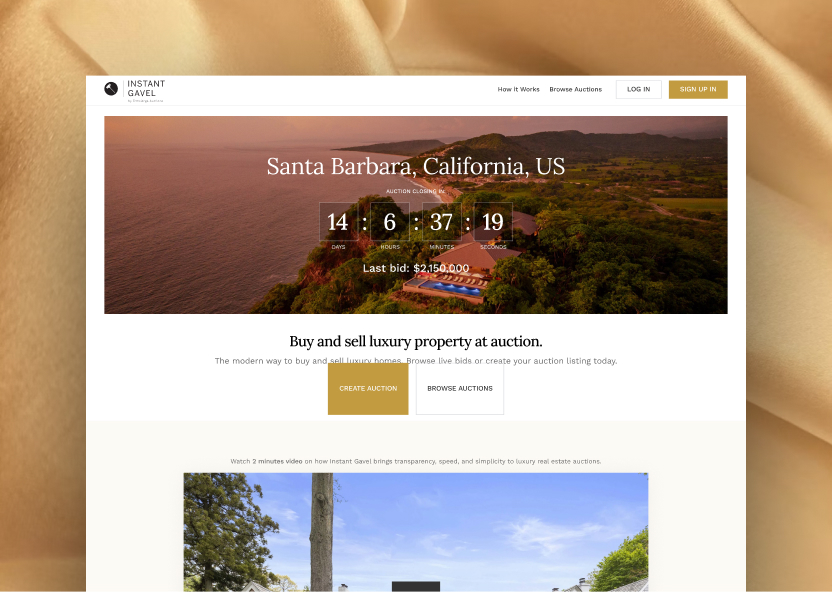
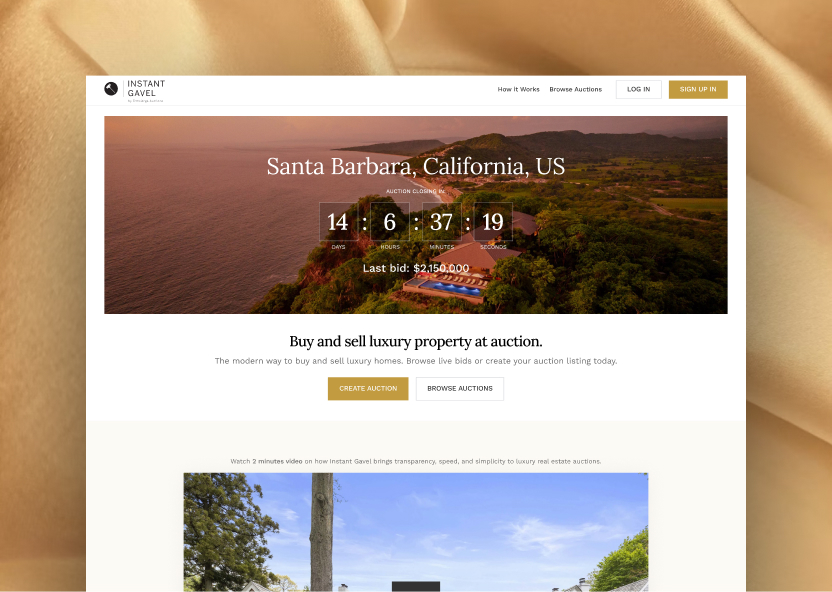
Massiv update + Instant Gavel case

Changed region(s): [[0.375, 0.6689, 0.5, 0.6993], [0.375, 0.6081, 0.5, 0.6385]]

diff --git a/index.html b/index.html
@@ -53,15 +53,13 @@
 <section id="hero" class="hero">
   <div class="container">
     <h1 class="hero__title load-rise">
-      <span class="hero__title-word">I</span> <span class="hero__title-word">Design</span> <span class="hero__title-word">Complex</span> <span class="hero__title-word">Digital</span> <span class="hero__title-word">Products</span><br />
-      <span class="hero__title-word">With</span> <span class="hero__title-word">Clean</span> <span class="hero__title-word">UI</span> <span class="hero__title-word">And</span> <span class="hero__title-word">User-Centered</span> <span class="hero__title-word">UX</span>
+      <span class="hero__title-word">Scaling</span> <span class="hero__title-word">Complex</span> <span class="hero__title-word">Digital</span> <span class="hero__title-word">Products</span><br />
+      <span class="hero__title-word">Leading</span> <span class="hero__title-word">Team</span> <span class="hero__title-word">AI</span> <span class="hero__title-word">Design</span> <span class="hero__title-word">Strategy</span>
     </h1>
 
     <ul class="hero__meta load-rise">
-      <li>7+ years experience</li>
-      <li>Led AI design strategy</li>
-      <li>Scaling design systems</li>
-      <li>From Poland</li>
+      <li>Senior Product Designer</li>
+      <li>7+ Years Experience</li>
     </ul>
   </div>
 
@@ -74,12 +72,48 @@
 </section>
 
 
+  <!-- ===================== ABOUT ===================== -->
+  <section id="about" class="about">
+    <div class="container about__inner">
+      <svg class="shape shape--circle" viewBox="0 0 80 80" fill="none" aria-hidden="true">
+        <circle cx="40" cy="40" r="39" stroke="currentColor" stroke-width="1" />
+      </svg>
+      <svg class="shape shape--cube" viewBox="0 0 88 96" fill="none" aria-hidden="true">
+        <path d="M44 1 L87 24 V72 L44 95 L1 72 V24 Z" stroke="currentColor" stroke-width="1" />
+        <path d="M1 24 L44 47 L87 24" stroke="currentColor" stroke-width="1" />
+        <path d="M44 47 V95" stroke="currentColor" stroke-width="1" />
+      </svg>
+      <svg class="shape shape--tetra" viewBox="0 0 118 104" fill="none" aria-hidden="true">
+        <path d="M59 1 L1 70" stroke="currentColor" stroke-width="1" />
+        <path d="M59 1 L117 70" stroke="currentColor" stroke-width="1" />
+        <path d="M59 1 L59 103" stroke="currentColor" stroke-width="1" />
+        <path d="M1 70 L59 103" stroke="currentColor" stroke-width="1" />
+        <path d="M117 70 L59 103" stroke="currentColor" stroke-width="1" />
+      </svg>
+
+      <div class="about__content">
+        <h2 class="about__title reveal">My Experience</h2>
+        <p class="reveal">Designing complex products, across real estate, logistics, legal tech and EdTech.</p>
+        <p class="reveal">Diving deeper into the core product team, like 3 years on Prospect Converter.</p>
+        <p class="reveal">Using AI workflow for fast MVP validation.</p>
+      </div>
+    </div>
+  </section>
+
   <!-- ===================== WORK APPROACH ===================== -->
   <section id="approach" class="approach">
     <div class="container">
       <h2 class="section-title reveal">Work Approach</h2>
 
       <ol class="steps">
+        <li class="step reveal">
+          <span class="step__icon" aria-hidden="true">
+            <img src="assets/icon-explore.svg" alt="" width="28" height="33" />
+          </span>
+          <h3 class="step__title">Explore &amp; Analyse</h3>
+          <p class="step__text">Take the input into account, identify what&rsquo;s missing, and narrow down the key focus.</p>
+        </li>
+
         <li class="step reveal">
           <span class="step__icon" aria-hidden="true">
             <img src="assets/icon-frame.svg" alt="" width="26" height="26" />
@@ -90,17 +124,9 @@
 
         <li class="step reveal">
           <span class="step__icon" aria-hidden="true">
-            <img src="assets/icon-explore.svg" alt="" width="28" height="33" />
-          </span>
-          <h3 class="step__title">Explore &amp; Analyse &ndash; AI Powered</h3>
-          <p class="step__text">Take the input into account, identify what&rsquo;s missing, and narrow down the key focus.</p>
-        </li>
-
-        <li class="step reveal">
-          <span class="step__icon" aria-hidden="true">
             <img src="assets/icon-generate.svg" alt="" width="33" height="31" />
           </span>
-          <h3 class="step__title">Generating &amp; Validate &ndash; AI Powered</h3>
+          <h3 class="step__title">Generating &amp; Validate</h3>
           <p class="step__text">Structure the gathered information to verify the best-fit solutions.</p>
         </li>
 
@@ -139,15 +165,15 @@
       <div class="cases__grid">
         <a class="case reveal-scale" href="team-wide-ai-workflow.html">
           <div class="case__thumb">
-            <img src="assets/ai-case-thumbnail.jpg" alt="Shipping platform dashboard with shipment reports and analytics" loading="lazy" />
+            <img src="assets/ai-case-thumbnail.jpg" alt="AI-Native Product Design Workflow on a Team Level" loading="lazy" />
           </div>
-          <span class="case__tag">AI-Native UX/UI Design</span>
-          <h3 class="case__title">AI-Native UX/UI Design Workflow on a Team Level</h3>
+          <span class="case__tag">Team Scale – AI Workflow</span>
+          <h3 class="case__title">AI-Native Product Design Workflow on a Team Level</h3>
         </a>
 
         <a class="case reveal-scale" href="instant-gavel.html">
           <div class="case__thumb">
-            <img src="assets/instant-gavel-thumbnail.jpg" alt="Shipping platform dashboard with shipment reports and analytics" loading="lazy" />
+            <img src="assets/instant-gavel-thumbnail.jpg" alt="Luxury Properties Auctions Platform" loading="lazy" />
           </div>
           <span class="case__tag">Instant Gavel – Real Estate</span>
           <h3 class="case__title">Luxury Properties Auctions Platform</h3>
@@ -155,9 +181,9 @@
 
         <a class="case reveal-scale" href="shipment.html">
           <div class="case__thumb">
-            <img src="assets/case-shipping.jpg" alt="Shipping platform dashboard with shipment reports and analytics" loading="lazy" />
+            <img src="assets/case-shipping.jpg" alt="Shipping Experience For Small Businesses" loading="lazy" />
           </div>
-          <span class="case__tag">Shipping Platform - Shipment</span>
+          <span class="case__tag">Shipping Platform - Logistics</span>
           <h3 class="case__title">Shipping Experience For Small Businesses</h3>
         </a>
 

diff --git a/styles.css b/styles.css
@@ -198,11 +198,6 @@ h1, h2, h3, h4 { font-family: var(--font-display); }
   left: 50%;
   transform: translateX(-50%);
   color: var(--fg);
-  animation: bob 2.4s ease-in-out infinite;
-}
-@keyframes bob {
-  0%, 100% { transform: translate(-50%, 0); }
-  50% { transform: translate(-50%, 9px); }
 }
 
 /* ---------- Sections ---------- */
@@ -245,7 +240,23 @@ h1, h2, h3, h4 { font-family: var(--font-display); }
 .shape {
   position: absolute;
   height: auto;
-  pointer-events: none;
+  pointer-events: auto;
+  color: rgba(255, 255, 255, 0.18);
+  transform-origin: center center;
+  transition: transform 0.3s var(--spring), color 0.3s var(--ease);
+  will-change: transform;
+}
+.shape:hover {
+  color: rgba(255, 255, 255, 0.32);
+}
+.shape--circle:hover {
+  transform: translate(-4px, -6px) rotate(-4deg) scale(1.12);
+}
+.shape--cube:hover {
+  transform: translate(5px, -4px) rotate(6deg) scale(1.06);
+}
+.shape--tetra:hover {
+  transform: translate(-3px, -8px) rotate(3deg) scale(1.2);
 }
 .shape--circle { top: 20%; right: 6.5%; width: 80px; }
 .shape--cube   { top: 40%; left: 3.5%; width: 88px; }
@@ -423,7 +434,6 @@ h1, h2, h3, h4 { font-family: var(--font-display); }
 .no-js .reveal, .no-js .reveal-scale, .no-js .load-rise { opacity: 1; transform: none; }
 @media (prefers-reduced-motion: reduce) {
   .reveal, .reveal-scale, .load-rise { opacity: 1; transform: none; transition: none; }
-  .hero__scroll { animation: none; }
   .btn:hover, .nav__link:hover, .textlink.is-visible:hover,
   .case.is-visible:hover, .step__icon:hover, .contact__qrwrap:hover,
   .hero__title-word:hover { transform: none; }
@@ -435,11 +445,21 @@ h1, h2, h3, h4 { font-family: var(--font-display); }
 @media (max-width: 860px) {
   .cases__grid { grid-template-columns: 1fr; gap: 56px; }
   .contact__grid { grid-template-columns: 1fr; gap: 44px; }
-  .about__inner { min-height: 440px; }
+  .about__inner { min-height: 520px; }
   .approach, .cases { padding: 84px 0 96px; }
-  .shape--tetra { display: none; }
-  .shape--cube { width: 64px; top: auto; bottom: -12%; }
-  .shape--circle { width: 58px; top: -18%; }
+  .shape--cube { width: 76px; top: 6%; left: 6%; }
+  .shape--circle { width: 68px; top: 6%; right: 6%; }
+  .shape--tetra {
+    display: block;
+    width: 92px;
+    top: auto;
+    left: 50%;
+    bottom: 6%;
+    transform: translateX(-50%);
+  }
+  .shape--tetra:hover {
+    transform: translateX(-50%) translateY(-6px) rotate(3deg) scale(1.15);
+  }
   .section-title { margin-bottom: 56px; }
 }
 @media (max-width: 640px) {

diff --git a/shipment.html b/shipment.html
@@ -31,7 +31,7 @@
     <!-- HEADER -->
     <section class="casehead">
       <div class="container">
-        <p class="casehead__tag reveal">Shipping Platform</p>
+        <p class="casehead__tag reveal">Shipping Platform - Shipment</p>
         <h1 class="casehead__title reveal">Shipping Experience for Small Businesses</h1>
       </div>
     </section>
@@ -147,8 +147,8 @@
       <p class="casesection__text">After analysing the user flow, it became obvious that users might want to select different service levels for shipments, which was not part of what functional competitors provided. So after brainstorming sessions we started AI-powered prototyping to validate our ideas &ndash; and found that we could allow users to pre-select a &ldquo;default&rdquo; service option for all shipments on the previous step, and change specific ones on the &ldquo;Review&rdquo; step.</p>
       <p class="casesection__text">Research shows that batching repetitive tasks can make workflows faster and easier by reducing unnecessary clicks and repeated actions. In one UX case study, introducing bulk actions reduced task completion time from 10 minutes to just 1&ndash;2 minutes. <a href="https://www.allison-tengel.com/bulk-action-component?utm_source=chatgpt.com" class="casesource-link" target="_blank" rel="noopener">Source study</a></p>
        <div class="casestat">
-        <span class="casestat__label">Less time spent</span>
-        <span class="casestat__value">&uarr;90%</span>
+        <span class="casestat__label">Task completion time</span>
+        <span class="casestat__value">&darr;~90%</span>
       </div>
     </section>
 
@@ -186,7 +186,7 @@
           </a>
         </div>
         <div class="contact__block reveal">
-          <h3 class="contact__label">Linkedin</h3>
+          <h3 class="contact__label">LinkedIn</h3>
           <p class="contact__value">maksym-gorzelski-983410190</p>
           <a href="https://www.linkedin.com/in/maksym-gorzelski-983410190/" class="btn btn--ghost" target="_blank" rel="noopener">
             View Profile

diff --git a/instant-gavel.html b/instant-gavel.html
@@ -128,12 +128,35 @@
 
       <div class="casestat-row">
         <div class="casestat">
-          <span class="casestat__label">Crashes reduced by</span>
-          <span class="casestat__value">100%</span>
+          <span class="casestat__label">Crashes reduced to</span>
+          <span class="casestat__value">~0%</span>
         </div>
       </div>
 
       <figure class="casefig"><img src="assets/cases/instant-gavel-6.jpg" alt="Auction negotiation chat" loading="lazy" /></figure>
+
+    </section>
+
+        <section class="casesection new-one-column-section container reveal">
+      <h2 class="casesection__title">Challenge 3: Automating marketing materials</h2>
+
+      <h3 class="casesub">The initial flow</h3>
+      <p class="casesection__text">After approving an auction request, admins manually created marketing materials for each listing, including brochures, evergreen emails, and related assets, pulling content and formatting them by hand every time.</p>
+
+      <h3 class="casesub">The fix</h3>
+      <p class="casesection__text">I proposed and helped design an AI powered generation feature that produced marketing materials automatically from each listing's data, then shared them with the property owner without admin involvement.</p>
+
+      <h3 class="casesub">The result</h3>
+      <p class="casesection__text">Admins no longer needed to manually assemble these materials for every auction, cutting production time by roughly 90% and freeing them to focus on higher value work.</p>
+
+      <div class="casestat-row">
+        <div class="casestat">
+          <span class="casestat__label">Saved users time</span>
+          <span class="casestat__value">~90%</span>
+        </div>
+      </div>
+
+      <figure class="casefig"><img src="assets/cases/instant-gavel-7.jpg" alt="Auction negotiation chat" loading="lazy" /></figure>
 
     </section>
   </main>

diff --git a/simpwill.html b/simpwill.html
@@ -26,7 +26,7 @@
   <main>
     <section class="casehead">
       <div class="container">
-        <p class="casehead__tag reveal">Simpwill</p>
+        <p class="casehead__tag reveal">Simpwill - Legal</p>
         <h1 class="casehead__title reveal">Digital Will &amp; Document Management Platform</h1>
       </div>
     </section>
@@ -108,7 +108,7 @@
 
     <section class="casesection container reveal">
       <h2 class="casesection__title">Forms</h2>
-      <p class="casesection__text">There is many forms like, &ldquo;Personal information&rdquo;, &ldquo;Add your partner&rdquo;, &ldquo;Add a child&rdquo; and many others.</p>
+      <p class="casesection__text">There are many forms, such as &ldquo;Personal information&rdquo;, &ldquo;Add your partner&rdquo;, &ldquo;Add a child&rdquo; and many others.</p>
       <figure class="casefig"><img src="assets/cases/simpwill-forms.jpg" alt="Forms" loading="lazy" /></figure>
     </section>
 
@@ -145,7 +145,7 @@
           </a>
         </div>
         <div class="contact__block reveal">
-          <h3 class="contact__label">Linkedin</h3>
+          <h3 class="contact__label">LinkedIn</h3>
           <p class="contact__value">maksym-gorzelski-983410190</p>
           <a href="https://www.linkedin.com/in/maksym-gorzelski-983410190/" class="btn btn--ghost" target="_blank" rel="noopener">
             View Profile

diff --git a/prospect-converter-app.html b/prospect-converter-app.html
@@ -26,7 +26,7 @@
   <main>
     <section class="casehead">
       <div class="container">
-        <p class="casehead__tag reveal">Prospect Converter</p>
+        <p class="casehead__tag reveal">Prospect Converter - Real Estate</p>
         <h1 class="casehead__title reveal">Full-Scale Real Estate Management Platform Redesign</h1>
       </div>
     </section>
@@ -142,7 +142,7 @@
           </a>
         </div>
         <div class="contact__block reveal">
-          <h3 class="contact__label">Linkedin</h3>
+          <h3 class="contact__label">LinkedIn</h3>
           <p class="contact__value">maksym-gorzelski-983410190</p>
           <a href="https://www.linkedin.com/in/maksym-gorzelski-983410190/" class="btn btn--ghost" target="_blank" rel="noopener">
             View Profile

diff --git a/prospect-converter-ds.html b/prospect-converter-ds.html
@@ -26,7 +26,7 @@
   <main>
     <section class="casehead">
       <div class="container">
-        <p class="casehead__tag reveal">Prospect Converter</p>
+        <p class="casehead__tag reveal">Prospect Converter - Real Estate</p>
         <h1 class="casehead__title reveal">Design System For the Lead Management Platform</h1>
       </div>
     </section>
@@ -167,7 +167,7 @@
           </a>
         </div>
         <div class="contact__block reveal">
-          <h3 class="contact__label">Linkedin</h3>
+          <h3 class="contact__label">LinkedIn</h3>
           <p class="contact__value">maksym-gorzelski-983410190</p>
           <a href="https://www.linkedin.com/in/maksym-gorzelski-983410190/" class="btn btn--ghost" target="_blank" rel="noopener">
             View Profile

diff --git a/event-management.html b/event-management.html
@@ -26,7 +26,7 @@
   <main>
     <section class="casehead">
       <div class="container">
-        <p class="casehead__tag reveal">EAB</p>
+        <p class="casehead__tag reveal">EAB - EdTech</p>
         <h1 class="casehead__title reveal">Event Management Platform</h1>
       </div>
     </section>
@@ -142,7 +142,7 @@
           </a>
         </div>
         <div class="contact__block reveal">
-          <h3 class="contact__label">Linkedin</h3>
+          <h3 class="contact__label">LinkedIn</h3>
           <p class="contact__value">maksym-gorzelski-983410190</p>
           <a href="https://www.linkedin.com/in/maksym-gorzelski-983410190/" class="btn btn--ghost" target="_blank" rel="noopener">
             View Profile

diff --git a/team-wide-ai-workflow.html b/team-wide-ai-workflow.html
@@ -26,8 +26,8 @@
   <main>
     <section class="casehead">
       <div class="container">
-        <p class="casehead__tag reveal">AI-Native UX/UI Design</p>
-        <h1 class="casehead__title reveal">AI-Native UX/UI Design Workflow on a Team Level</h1>
+        <p class="casehead__tag reveal">Team Scale – AI Workflow</p>
+        <h1 class="casehead__title reveal">AI-Native Product Design Workflow on a Team Level</h1>
       </div>
     </section>
 

diff --git a/social-media.html b/social-media.html
@@ -128,7 +128,7 @@
           </a>
         </div>
         <div class="contact__block reveal">
-          <h3 class="contact__label">Linkedin</h3>
+          <h3 class="contact__label">LinkedIn</h3>
           <p class="contact__value">maksym-gorzelski-983410190</p>
           <a href="https://www.linkedin.com/in/maksym-gorzelski-983410190/" class="btn btn--ghost" target="_blank" rel="noopener">
             View Profile
